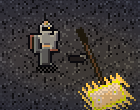
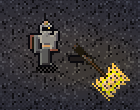
Hammer of Gods: a step smaller, spinning faster
36 px instead of 52, still golden and glowing, turning almost twice as
fast; hit box and light scaled to match.

Claude-Session: https://claude.ai/code/session_01QTYkTZLkkmMsHgterwfJcv

diff --git a/src/gen/pixel/props.ts b/src/gen/pixel/props.ts
@@ -298,24 +298,24 @@ export function projectileProp(shape: ProjectileShape, color: number, pal: Palet
       return prop(frames, 6 * s, s, 1);
     }
     case 'hammer': {
-      // A holy war hammer twice the hero's height, turning through eight
-      // angles: a long haft with a wrapped grip and a broad golden head that
-      // glows, with a dithered halo that flickers as it spins
-      const N = 52 * s;
-      const C = 26 * s;
-      const haft = 20 * s;
+      // A holy war hammer a head taller than the hero, spinning fast through
+      // eight angles: a long haft with a wrapped grip and a broad golden head
+      // that glows, with a dithered halo that flickers as it turns
+      const N = 36 * s;
+      const C = 18 * s;
+      const haft = 14 * s;
       const glow = ramp(0xffd860, pal.contrast);
       for (let f = 0; f < 8; f++) {
         const b = new PixelBuffer(N, N);
         const a = (f / 8) * Math.PI;
         const dx = Math.cos(a);
         const dy = Math.sin(a);
-        const hx = Math.round(C + dx * (haft - 4 * s));
-        const hy = Math.round(C + dy * (haft - 4 * s));
-        const across = 8 * s; // half-width across the haft
-        const along = 5 * s; // half-depth along it
+        const hx = Math.round(C + dx * (haft - 3 * s));
+        const hy = Math.round(C + dy * (haft - 3 * s));
+        const across = 5 * s; // half-width across the haft
+        const along = 3 * s; // half-depth along it
         // Halo: a soft ring of light around the head, dithered so it reads as glow
-        const halo = 5 * s;
+        const halo = 4 * s;
         for (let u = -along - halo; u <= along + halo; u++) {
           for (let v = -across - halo; v <= across + halo; v++) {
             const du = Math.max(0, Math.abs(u) - along);
@@ -332,9 +332,9 @@ export function projectileProp(shape: ProjectileShape, color: number, pal: Palet
         }
         // Haft, three pixels thick, from the pommel to the head, with a darker wrapped grip
         for (let t = -1; t <= 1; t++) {
-          b.line(Math.round(C - dx * haft - dy * t), Math.round(C - dy * haft + dx * t), Math.round(C + dx * (haft - 8 * s) - dy * t), Math.round(C + dy * (haft - 8 * s) + dx * t), t === 0 ? wood[1] : wood[0]);
+          b.line(Math.round(C - dx * haft - dy * t), Math.round(C - dy * haft + dx * t), Math.round(C + dx * (haft - 5 * s) - dy * t), Math.round(C + dy * (haft - 5 * s) + dx * t), t === 0 ? wood[1] : wood[0]);
         }
-        for (let g = 0; g < 6 * s; g += 2) {
+        for (let g = 0; g < 4 * s; g += 2) {
           const gx = Math.round(C - dx * (haft - 2 * s - g));
           const gy = Math.round(C - dy * (haft - 2 * s - g));
           b.rect(gx - s, gy - s, 3 * s, 3 * s, wood[0]);
@@ -352,12 +352,11 @@ export function projectileProp(shape: ProjectileShape, color: number, pal: Palet
         for (const side of [-1, 1]) {
           const rx = Math.round(hx - dy * side * (across >> 1));
           const ry = Math.round(hy + dx * side * (across >> 1));
-          b.rect(rx - s, ry - s, 3 * s, 3 * s, glow[3]);
           b.set(rx, ry, glow[0]);
         }
         frames.push(b.toCanvas());
       }
-      return prop(frames, C, C, 0.04);
+      return prop(frames, C, C, 0.022);
     }
   }
 }

diff --git a/src/data/skills.ts b/src/data/skills.ts
@@ -169,7 +169,7 @@ export const SKILLS: Record<string, SkillDef> = {
   ground_stomp: { id: 'ground_stomp', name: 'Ground Stomp', classId: K, tier: 'base', description: 'Stomp the ground, damaging and slowing nearby enemies.', manaCost: 30, cooldown: 7000, reqLevel: 15, element: 'physical', upgradesTo: 'ground_stomp_ult', effect: { kind: 'aoe', damageMult: 1.5, radius: 120, at: 'self', slow: 2000, visual: 'stomp' } },
   ground_stomp_ult: { id: 'ground_stomp_ult', name: 'Ground Stomp', classId: K, tier: 'ultimate', description: 'A quake that stuns everything in a wide circle.', manaCost: 50, cooldown: 18000, rank5Cooldown: 12000, rankBonus: 0.35, reqLevel: 20, element: 'physical', effect: { kind: 'aoe', damageMult: 2.0, radius: 300, at: 'self', stun: 2000, visual: 'stomp' } },
   prayer: { id: 'prayer', name: 'Prayer', classId: K, tier: 'pledge', pledgeId: 'paladin', description: 'Regenerate 5% of your life every second for ten seconds.', manaCost: 40, cooldown: 25000, rank5Cooldown: 16000, reqLevel: 10, element: 'physical', effect: { kind: 'buff', duration: 10000, mods: { regenPct: 5 } } },
-  hammer_of_gods: { id: 'hammer_of_gods', name: 'Hammer of Gods', classId: K, tier: 'pledge', pledgeId: 'paladin', description: 'Hurl a holy hammer that passes through everything and returns to you.', manaCost: 35, cooldown: 12000, rank5Cooldown: 7000, rankBonus: 0.35, reqLevel: 5, element: 'physical', effect: { kind: 'projectile', damageMult: 2.5, projSpeed: 840, maxRange: 350, pierce: Infinity, returns: true, throughWalls: true, shape: 'hammer', projRadius: 26 } },
+  hammer_of_gods: { id: 'hammer_of_gods', name: 'Hammer of Gods', classId: K, tier: 'pledge', pledgeId: 'paladin', description: 'Hurl a holy hammer that passes through everything and returns to you.', manaCost: 35, cooldown: 12000, rank5Cooldown: 7000, rankBonus: 0.35, reqLevel: 5, element: 'physical', effect: { kind: 'projectile', damageMult: 2.5, projSpeed: 840, maxRange: 350, pierce: Infinity, returns: true, throughWalls: true, shape: 'hammer', projRadius: 18 } },
   sanctuary: { id: 'sanctuary', name: 'Sanctuary', classId: K, tier: 'pledge', pledgeId: 'paladin', description: 'Consecrate the ground: +200 armor and +50% resistances while you stand in it.', manaCost: 50, cooldown: 40000, rank5Cooldown: 28000, reqLevel: 15, element: 'physical', effect: { kind: 'zone', zone: 'sanctuary', duration: 20000, radius: 300, mods: { armor: 200, allResists: 50 } } },
   rock_solid: { id: 'rock_solid', name: 'Rock Solid', classId: K, tier: 'pledge', pledgeId: 'titan', description: '+200 armor and a physical shield equal to your max life for ten seconds.', manaCost: 55, cooldown: 35000, rank5Cooldown: 22000, reqLevel: 15, element: 'physical', effect: { kind: 'buff', duration: 10000, mods: { armor: 200, shieldPct: 100, shieldPhysicalOnly: true } } },
   boulder_toss: { id: 'boulder_toss', name: 'Boulder Toss', classId: K, tier: 'pledge', pledgeId: 'titan', description: 'Throw a boulder that lands after a short delay and crushes a wide area.', manaCost: 45, cooldown: 14000, rank5Cooldown: 9000, rankBonus: 0.35, reqLevel: 10, element: 'physical', effect: { kind: 'aoe', damageMult: 3.5, radius: 200, at: 'target', maxRange: 320, delay: 900, visual: 'boulder' } },

diff --git a/src/render2d/pixelView.ts b/src/render2d/pixelView.ts
@@ -824,7 +824,7 @@ export class PixelView {
       } else if (pr.shape === 'hammer') {
         // The holy hammer throws a warm, pulsing light as it spins
         const [lr, lg, lb] = rgb(color);
-        this.lights.push({ x: fx, y: fy, radius: 70, intensity: 0.85 + Math.sin(this.time * 12) * 0.15, r: lr, g: lg, b: lb });
+        this.lights.push({ x: fx, y: fy, radius: 50, intensity: 0.85 + Math.sin(this.time * 12) * 0.15, r: lr, g: lg, b: lb });
       }
     }
 
